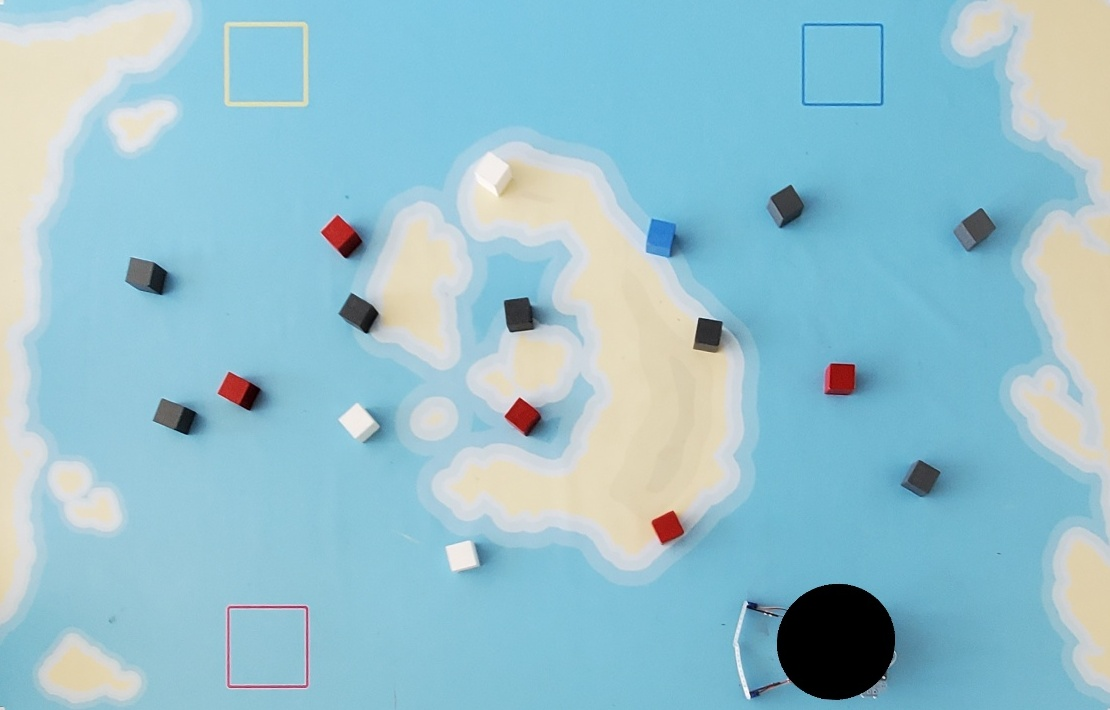
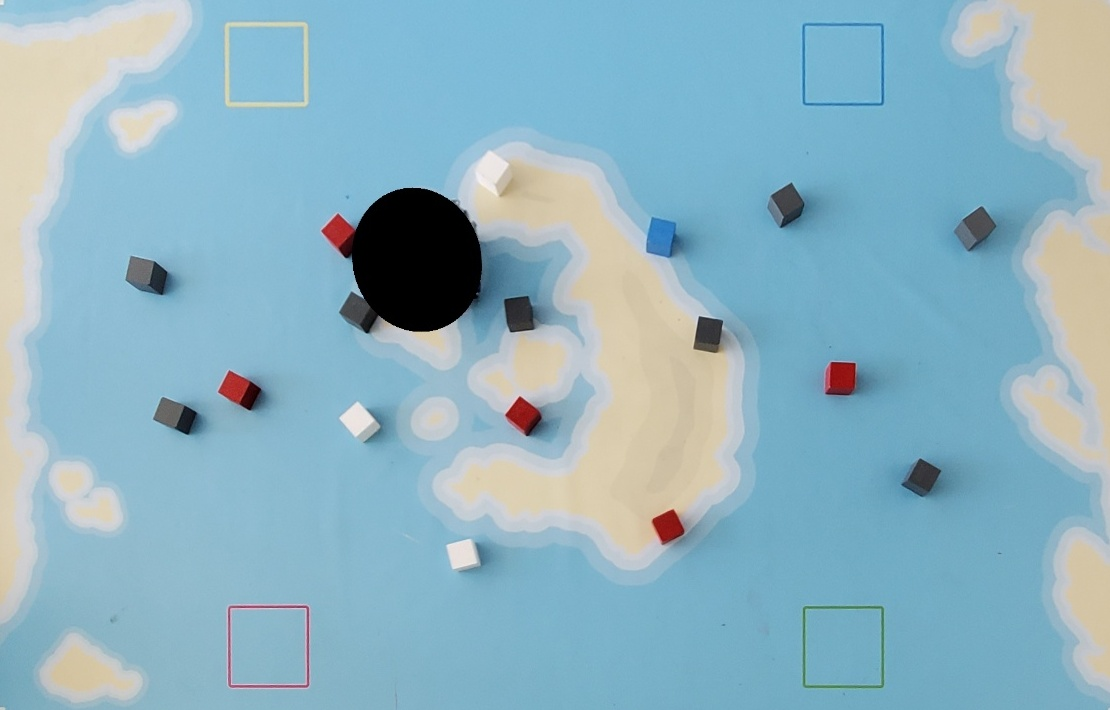
Ajout grille et code principal dans le main

diff --git a/pythonProject/main.py b/pythonProject/main.py
@@ -1,2 +1,269 @@
+import cv2
+import cv2.aruco as aruco
+import numpy as np
+import Grid
 
-import Cal_couleurs
+def calculate_perspective_transform_matrix(Corner1, Corner2, Corner3, Corner4, size):
+    # Define the destination points for perspective transformation
+    dst_points = np.float32([[0, 0], [size[0], 0], [0, size[1]], [size[0], size[1]]])
+
+    # Extract the corners of the detected ArUco markers
+    src_points = np.float32([Corner1, Corner2, Corner3, Corner4])
+
+    # Calculate perspective transformation matrix
+    M = cv2.getPerspectiveTransform(src_points, dst_points)
+
+    return M
+
+
+def get_mean_hsv(image, center):
+    #Get the mean HSV value in a 5 pixel radius circle around a specified center.
+
+    x, y = center
+    hsv_image = cv2.cvtColor(image, cv2.COLOR_BGR2HSV)
+    circle_mask = np.zeros_like(hsv_image[:, :, 0], dtype=np.uint8)
+    cv2.circle(circle_mask, center, 2, 255, -1)
+    mean_hsv = cv2.mean(hsv_image, mask=circle_mask)[:3]
+    return tuple(map(round, mean_hsv))
+
+
+def get_mean_bgr(image, center):
+    #Get the mean BGR value in a 5 pixel radius circle around a specified center.
+
+    x, y = center
+    bgr_image = image
+    circle_mask = np.zeros_like(bgr_image[:, :, 0], dtype=np.uint8)
+    cv2.circle(circle_mask, center, 2, 255, -1)
+    mean_bgr = cv2.mean(bgr_image, mask=circle_mask)[:3]
+    return tuple(map(round, mean_bgr))
+
+
+# 0 for camera, 1 for photos
+TEST = 1
+
+final_size = (1200, 800)
+
+
+if TEST != 1:
+    cap = cv2.VideoCapture(0)
+
+# Defintion of the aruco detection parameters
+aruco_dict = aruco.getPredefinedDictionary(aruco.DICT_ARUCO_ORIGINAL)
+
+parameters = aruco.DetectorParameters()
+detector = aruco.ArucoDetector(aruco_dict, parameters)
+
+nomImages = (
+    "Images\PhotoCam2_1.jpg",                              #cpt =  0
+    "Images\PhotoCarteRobot5.jpg",                         #cpt =  1
+    "Images\PhotoCarteRobot9.jpg",                         #cpt =  2
+    "Images\PhotoCarteRobot1.jpg",                         #cpt =  3
+    "Images\PhotoCarteRobot2.jpg",                         #cpt =  4
+    "Images\PhotoCarteRobot3.jpg",                         #cpt =  5
+    "Images\PhotoCarteRobot6.jpg",                         #cpt =  6
+    "Images\PhotoCarteRobot8.jpg",                         #cpt =  7
+    "Images\PhotoCarteRobot10.jpg",                        #cpt =  8
+    "Images\ConfigBlocsAvecArucoCote1.jpg",                #cpt =  9
+    "Images\PhotoCarteTelephone5.jpg",                     #cpt =  10
+    "Images\ConfigBlocsAvecArucoCote3.jpg",                #cpt =  11
+    "Images\ConfigBlocsAvecArucoDessusLoin1.jpg",          #cpt =  12
+    "Images\ConfigBlocsAvecArucoDessusProche1.jpg")        #cpt =  13
+nbImages = len(nomImages)
+
+frame = cv2.imread(nomImages[0])
+
+cpt = 2
+
+while True:
+    if TEST == 0:
+        ret, frame = cap.read()
+    elif TEST == 1:
+        frame = cv2.imread(nomImages[cpt])
+        frame = cv2.resize(frame, (0, 0), fx=0.7, fy=0.7)
+        if cv2.waitKey(1) & 0xFF == ord('p'):                   # While the code is running press 'p' to go to the next image
+            cpt += 1
+            if cpt == nbImages:
+                cpt = 0
+    gray = cv2.cvtColor(frame, cv2.COLOR_BGR2GRAY)
+
+    corners, ids, rejectedCandidates = detector.detectMarkers(gray)
+
+    if ids is not None:
+        Corner1 = None
+        Corner2 = None
+        Corner3 = None
+        Corner4 = None
+        for i in range(len(ids)):
+            if ids[i] == 0:
+                p1, p2, p3, p4 = corners[i][0]  # Extract corner1 points
+                Corner1 = p1
+            elif ids[i] == 1:
+                p1, p2, p3, p4 = corners[i][0]  # Extract corner2 points
+                Corner2 = p2
+            elif ids[i] == 2:
+                p1, p2, p3, p4 = corners[i][0]  # Extract corner3 points
+                Corner3 = p3
+            elif ids[i] == 3:
+                p1, p2, p3, p4 = corners[i][0]  # Extract corner4 points
+                Corner4 = p4
+
+        M = calculate_perspective_transform_matrix(Corner1, Corner2, Corner4, Corner3, final_size)
+        hit_img = frame.copy()
+        for i in range(len(ids)):
+            if ids[i] == 132:
+                # Calculate the midpoint between the bottom two corners
+                bottom_midpoint_x = (int(corners[i][0][2][0]) + int(corners[i][0][3][0])) // 2
+                bottom_midpoint_y = (int(corners[i][0][2][1]) + int(corners[i][0][3][1])) // 2
+
+                # Calculate the direction vector from the bottom two corners
+                direction_vector_x = int(corners[i][0][2][0]) - int(corners[i][0][3][0])
+                direction_vector_y = int(corners[i][0][2][1]) - int(corners[i][0][3][1])
+
+                # Normalize the direction vector
+                direction_vector_length = np.sqrt(direction_vector_x ** 2 + direction_vector_y ** 2)
+                normalized_direction_vector_x = direction_vector_x / direction_vector_length
+                normalized_direction_vector_y = direction_vector_y / direction_vector_length
+
+                # Move the midpoint 10 pixels in front of the equidistance of the bottom two corners
+                new_center_x = bottom_midpoint_x + int(65 * normalized_direction_vector_x)
+                new_center_y = bottom_midpoint_y + int(65 * normalized_direction_vector_y)
+                # Draw a circle in front of the aruco (New Hitbox)
+                cv2.circle(frame, (new_center_x, new_center_y),
+                           115,
+                           (0, 0, 0), -1)
+
+        dst = cv2.warpPerspective(frame, M, final_size)
+        hit_img = cv2.warpPerspective(hit_img, M, final_size)
+
+        # Saving the images to a file
+        cv2.imwrite("Images\Frame.jpg", frame)
+        cv2.imwrite("Images\Transformed_image.jpg", dst)
+        cv2.imwrite("Images\Hitbox.jpg", hit_img)
+
+        # Open the image
+        image = cv2.imread(
+            "Images/Transformed_image.jpg")
+
+        # Define the dimensions of the centered rectangle
+        crop_width = 1110
+        crop_height = 710
+
+        # Calculate the coordinates for cropping
+        left = (image.shape[1] - crop_width) // 2
+        top = (image.shape[0] - crop_height) // 2
+        right = left + crop_width
+        bottom = top + crop_height
+
+        # Crop the image
+        cropped_image = image[top:bottom, left:right]
+
+        # Save the cropped image
+        cv2.imwrite("Images/cropped_frame.jpg", cropped_image)
+
+        # Adding a Grid
+        square_size = 16  # Size of each square in pixels
+        grid_img = Grid.add_grid(dst, square_size)
+
+        #Displaying different results
+        cv2.imshow('Hitbox', hit_img)
+        cv2.imshow('Perspective Transformation Result', dst)
+        cv2.imshow('Cropped image', cropped_image)
+        cv2.imshow('Grid', grid_img)
+
+        img_copy = dst.copy()
+
+        # Define the centers of the circles
+        circle_centers = [(103, 797), (140, 797), (175, 797), (215, 797), (250, 797)]
+        circle_centers_grey = [(802, 3), (839, 3), (877, 3), (914, 3), (949, 3)]
+        circle_radius = 10
+        # Get the mean HSV values for each circle
+        mean_hsv_values = []
+        # Get the mean BGR values for each circle
+        mean_bgr_values = []
+
+        for center in circle_centers:
+            mean_hsv = get_mean_hsv(dst, center)
+            mean_hsv_values.append(mean_hsv)
+
+        for center_grey in circle_centers_grey:
+            mean_bgr = get_mean_bgr(dst, center_grey)
+            mean_bgr_values.append(mean_bgr)
+
+        # Print the mean HSV values
+        for i in range(5):
+            '''print(f"Circle {i + 1}: Mean HSV = {mean_hsv_values[i][0]} {mean_hsv_values[i][1]} {mean_hsv_values[i][2]}")'''
+            # Convert HSV mean values to BGR in order to draw on the frame 'img_copy'
+            bgr_color = cv2.cvtColor(
+                np.uint8([[[mean_hsv_values[i][0], mean_hsv_values[i][1], mean_hsv_values[i][2]]]]), cv2.COLOR_HSV2BGR)
+            bgr_color = (int(bgr_color[0][0][0]), int(bgr_color[0][0][1]), int(bgr_color[0][0][2]))
+            # Draw filled circles
+            cv2.circle(img_copy, (circle_centers[i][0], circle_centers[i][1]), circle_radius, bgr_color, -1)
+
+            cv2.circle(img_copy, (circle_centers_grey[i][0], circle_centers_grey[i][1]), circle_radius,
+                       (mean_bgr_values[i][0], mean_bgr_values[i][1], mean_bgr_values[i][2]), -1)  # Draw filled circles
+
+        cv2.imshow("Color calibration", img_copy)
+
+        hsv_img = cv2.cvtColor(cropped_image, cv2.COLOR_BGR2HSV)
+        for i in range(5):
+        # Definition of mask boundaries with the previously acquired mean values
+            if i == 1:
+                # Blue
+                bound_lower = np.array(
+                    [mean_hsv_values[i][0] - 8, mean_hsv_values[i][1] - 15, mean_hsv_values[i][2] - 10])
+                bound_upper = np.array([mean_hsv_values[i][0] + 8, 255, 210])
+                blue_mask = cv2.inRange(hsv_img, bound_lower, bound_upper)
+            elif i == 3:
+                # Magenta
+                bound_lower = np.array(
+                    [mean_hsv_values[i][0] - 8, mean_hsv_values[i][1] - 100, mean_hsv_values[i][2] - 100])
+                bound_upper = np.array([mean_hsv_values[i][0] + 8, 255, 255])
+                magenta_mask = cv2.inRange(hsv_img, bound_lower, bound_upper)
+            elif i == 4:
+                # Red
+                bound_lower = np.array(
+                    [mean_hsv_values[i][0] - 20, mean_hsv_values[i][1] - 100, mean_hsv_values[i][2] - 100])
+                bound_upper = np.array([mean_hsv_values[i][0], 255, 255])
+                red_mask = cv2.inRange(hsv_img, bound_lower, bound_upper)
+            elif i == 2:
+                # Grey
+                bound_lower = np.array(
+                    [mean_bgr_values[0][0] - 45, mean_bgr_values[0][1] - 45, mean_bgr_values[0][2] - 45])
+                bound_upper = np.array(
+                    [mean_bgr_values[3][0], mean_bgr_values[3][1], mean_bgr_values[3][1]])
+                grey_mask = cv2.inRange(cropped_image, bound_lower, bound_upper)
+
+        kernel = np.ones((7, 7), np.uint8)
+        # Definition and displaying of different masks
+        blue_mask = cv2.morphologyEx(blue_mask, cv2.MORPH_CLOSE, kernel)
+        blue_mask = cv2.morphologyEx(blue_mask, cv2.MORPH_OPEN, kernel)
+
+        display_blue_mask = cv2.bitwise_and(cropped_image, cropped_image, mask=blue_mask)
+
+        magenta_mask = cv2.morphologyEx(magenta_mask, cv2.MORPH_CLOSE, kernel)
+        magenta_mask = cv2.morphologyEx(magenta_mask, cv2.MORPH_OPEN, kernel)
+
+        display_magenta_mask = cv2.bitwise_and(cropped_image, cropped_image, mask=magenta_mask)
+
+        red_mask = cv2.morphologyEx(red_mask, cv2.MORPH_CLOSE, kernel)
+        red_mask = cv2.morphologyEx(red_mask, cv2.MORPH_OPEN, kernel)
+
+        display_red_mask = cv2.bitwise_and(cropped_image, cropped_image, mask=red_mask)
+
+        grey_mask = cv2.morphologyEx(grey_mask, cv2.MORPH_CLOSE, kernel)
+        grey_mask = cv2.morphologyEx(grey_mask, cv2.MORPH_OPEN, kernel)
+
+        display_grey_mask = cv2.bitwise_and(cropped_image, cropped_image, mask=grey_mask)
+
+        cv2.imshow("Blue mask", display_blue_mask)
+        cv2.imshow("Magenta mask", display_magenta_mask)
+        cv2.imshow("Red mask", display_red_mask)
+        cv2.imshow("Grey mask", display_grey_mask)
+    if cv2.waitKey(1) & 0xFF == ord('q'):
+        break
+
+if TEST != 1:
+    cap.release()
+cv2.destroyAllWindows()
+
+

diff --git a/pythonProject/Cal_couleurs.py b/pythonProject/Cal_couleurs.py
@@ -72,7 +72,7 @@ nbImages = len(nomImages)
 
 frame = cv2.imread(nomImages[0])
 
-cpt = 5
+cpt = 2
 
 while True:
     if TEST == 0:
@@ -205,8 +205,8 @@ while True:
             if i == 1:
                 # Blue
                 bound_lower = np.array(
-                    [mean_hsv_values[i][0] - 8, mean_hsv_values[i][1] - 10, mean_hsv_values[i][2] - 10])
-                bound_upper = np.array([mean_hsv_values[i][0] + 8, 255, 190])
+                    [mean_hsv_values[i][0] - 8, mean_hsv_values[i][1] - 15, mean_hsv_values[i][2] - 10])
+                bound_upper = np.array([mean_hsv_values[i][0] + 8, 255, 210])
                 blue_mask = cv2.inRange(hsv_img, bound_lower, bound_upper)
             elif i == 3:
                 # Magenta
@@ -223,9 +223,9 @@ while True:
             elif i == 2:
                 # Grey
                 bound_lower = np.array(
-                    [mean_bgr_values[0][0] - 50, mean_bgr_values[0][1] - 50, mean_bgr_values[0][2] - 50])
+                    [mean_bgr_values[0][0] - 45, mean_bgr_values[0][1] - 45, mean_bgr_values[0][2] - 45])
                 bound_upper = np.array(
-                    [mean_hsv_values[3][0], mean_bgr_values[3][1], mean_bgr_values[3][1]])
+                    [mean_bgr_values[3][0], mean_bgr_values[3][1], mean_bgr_values[3][1]])
                 grey_mask = cv2.inRange(cropped_image, bound_lower, bound_upper)
 
         kernel = np.ones((7, 7), np.uint8)

diff --git a/pythonProject/Grid.py b/pythonProject/Grid.py
@@ -1,0 +1,17 @@
+import cv2
+def add_grid(image, square_size):
+    # Read the image
+    img = image
+
+    # Get image dimensions
+    img_height = 800
+    img_width = 1200
+
+    # Draw vertical lines
+    for x in range(square_size, img_width, square_size):
+        cv2.line(img, (x, 0), (x, img_height), (0, 0, 0), 1)
+
+    # Draw horizontal lines
+    for y in range(square_size, img_height, square_size):
+        cv2.line(img, (0, y), (img_width, y), (0, 0, 0), 1)
+    return img
